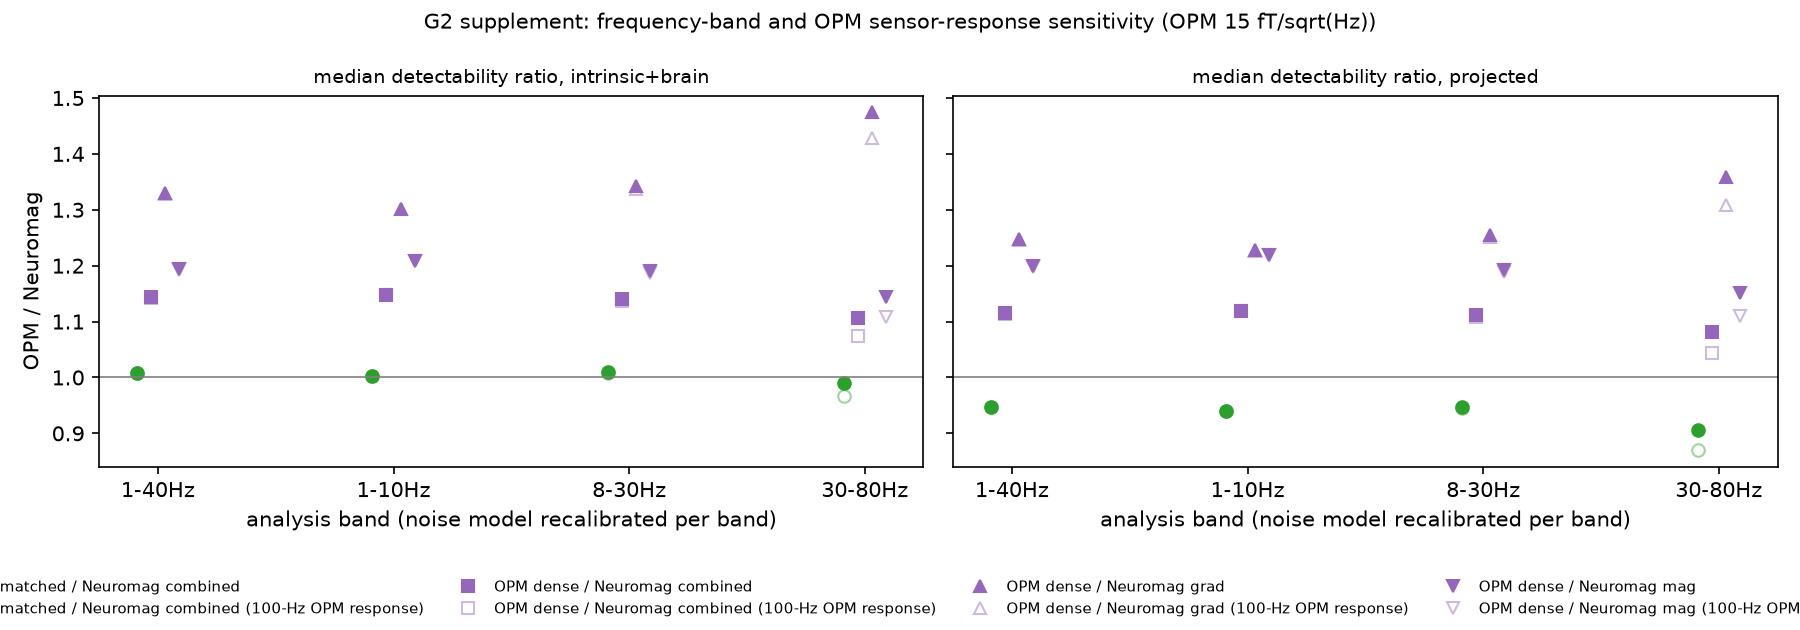
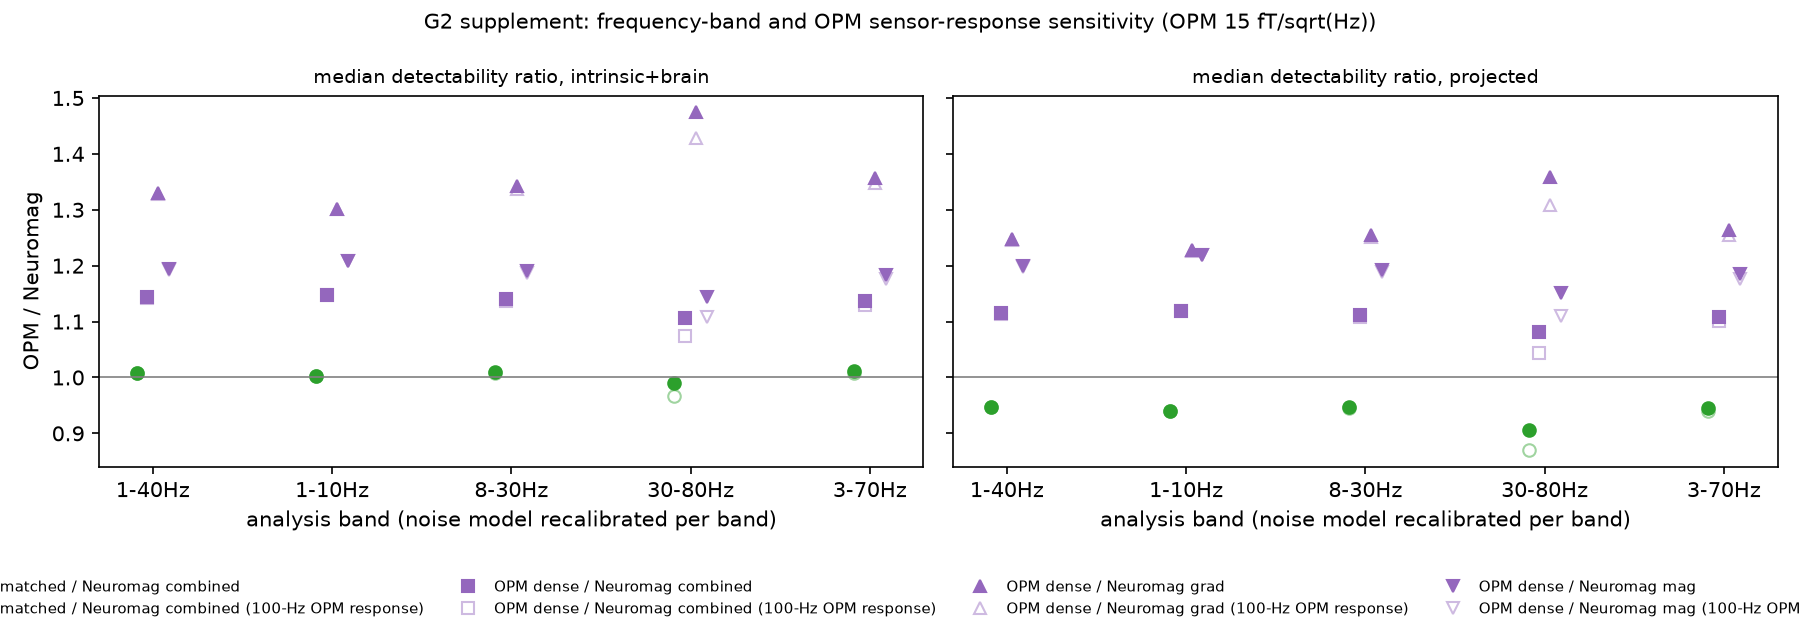
The 3-70 Hz band added to the band analysis (other bands bit-identical) and the children's MRI check re-run with full-precision depths (child B: 247 targets below 10 mm, as in the pediatric summary), both at bd70b45 in a clean checkout; the supplement's note on the old rounded count removed

diff --git a/scripts/report_facts_writer.py b/scripts/report_facts_writer.py
@@ -45,8 +45,6 @@ Read only; nothing is re-run. Every fact is computed from unrounded stored value
   wr_p_exploratory_threshold      the conventional uncorrected threshold of the exploratory tests, recovered from the stored
                                   Bonferroni threshold of the localization figure and its family size
   wr_qc_near_lo_mm, wr_qc_near_hi_mm  the two near-scalp thresholds of the children's MRI check
-  wr_qc_child_b_targets_lt10mm_shortfall  by how many targets the check's rounded count of child B's targets below 10 mm
-                                  falls short of the full-precision count
   wr_ns_depth_bin_mm              the depth-bin width of the noise-sensitivity run's own depth results
 Formats as scripts/report_facts_g12.py (whose helpers are imported): dB signed with 2 decimals, intervals "[lo, hi]",
 U+2212 for negatives, counts with thousands separators.
@@ -537,15 +535,6 @@ def threshold_facts(F: Facts, root: Path) -> None:
         raise ValueError(f"{QC}: parameters.near_mm should hold two increasing thresholds, found {near}")
     F.add("wr_qc_near_lo_mm", f"{near[0]:g}", near[0], f"{QC} :: parameters.near_mm[0] (the lower near-scalp threshold, mm)")
     F.add("wr_qc_near_hi_mm", f"{near[1]:g}", near[1], f"{QC} :: parameters.near_mm[1] (the upper near-scalp threshold, mm)")
-    full = int(json.loads((root / G3B).read_text())["comparisons"]["childB/opm_dense/combined/intrinsic+brain/detect"]
-               ["delta_by_depth"][0]["n_child"])
-    rounded = int(json.loads((root / QC).read_text())["anatomies"]["childB"]["g3b_targets"]["below_10mm"]["n"])
-    if full < rounded:
-        raise ValueError(f"the check's count ({rounded}) exceeds the full-precision count ({full})")
-    F.add("wr_qc_child_b_targets_lt10mm_shortfall", count(full - rounded), full - rounded,
-          f"{G3B} :: comparisons['childB/opm_dense/combined/intrinsic+brain/detect'].delta_by_depth[0].n_child minus "
-          f"{QC} :: anatomies['childB'].g3b_targets.below_10mm.n (derived: the full-precision count less the check's count "
-          "from depths rounded to two decimals)")
     entries = json.loads((root / NOISE_SENS).read_text())["sweep"]["entries"]
     key = next(k for k in entries if float(k) == 15.0)
     bins = entries[key]["depth"]["opm_dense/combined/intrinsic+brain"]

diff --git a/tests/test_report_facts_writer.py b/tests/test_report_facts_writer.py
@@ -291,7 +291,7 @@ class TestWriterFacts(unittest.TestCase):
         self.assertEqual(self.F["wr_n_children_below_adult_fitted_words"]["raw"], n)
         self.assertEqual(self.F["wr_n_children_below_adult_fitted_words"]["value"], "two")
 
-    def test_thresholds_shortfall_and_depth_bin_width(self):
+    def test_thresholds_counts_and_depth_bin_width(self):
         loc = json.loads((ROOT / FIGS_SUPP).read_text())["figures"]["Figure_S_localization_effects"]["values"]
         self.assertAlmostEqual(self.F["wr_p_exploratory_threshold"]["raw"],
                                loc["bonferroni_threshold"] * loc["family_per_anatomy_and_array"], places=12)
@@ -302,9 +302,9 @@ class TestWriterFacts(unittest.TestCase):
         self.assertEqual(self.F["wr_qc_near_hi_mm"]["value"], "10")
         g3b = json.loads((ROOT / "results/g3b/g3b_summary.json").read_text())["comparisons"]
         full = g3b["childB/opm_dense/combined/intrinsic+brain/detect"]["delta_by_depth"][0]["n_child"]
-        rounded = qc["anatomies"]["childB"]["g3b_targets"]["below_10mm"]["n"]
-        self.assertEqual(self.F["wr_qc_child_b_targets_lt10mm_shortfall"]["raw"], full - rounded)
-        self.assertEqual(self.F["wr_qc_child_b_targets_lt10mm_shortfall"]["value"], "2")
+        # the check now counts from the full-precision depths (results/g3b/g3b_targets_childB_depth.csv)
+        self.assertEqual(qc["anatomies"]["childB"]["g3b_targets"]["below_10mm"]["n"], full)
+        self.assertNotIn("wr_qc_child_b_targets_lt10mm_shortfall", self.F)
         ns = json.loads((ROOT / "results/g2_noise_sensitivity/noise_sensitivity_summary.json").read_text())
         bins = ns["sweep"]["entries"]["15"]["depth"]["opm_dense/combined/intrinsic+brain"]
         self.assertEqual({b["hi"] - b["lo"] for b in bins}, {self.F["wr_ns_depth_bin_mm"]["raw"]})

diff --git a/tests/test_report_facts_rev.py b/tests/test_report_facts_rev.py
@@ -166,7 +166,7 @@ class TestRevisionFacts(unittest.TestCase):
             "rev_qc_infant2yr_outward_mm": "1.6",                                  # -(-1.63892)
             "rev_qc_infant2yr_outward_excess_mm": "3.0",                           # -(-2.98547)
             "rev_qc_child_a_ofc_mri_cm": "52.9",                                   # 528.73 mm
-            "rev_qc_child_b_targets_lt10mm_n": "245",
+            "rev_qc_child_b_targets_lt10mm_n": "247",  # full-precision depths since the re-run at bd70b45
             "rev_qc_child_b_targets_lt10mm_mri_n": "47",
             "rev_qc_child_a_verdict": "usable", "rev_qc_infant2yr_verdict": "outside",
             "rev_qc_n_children_usable": "3",

diff --git a/report/supplement.md b/report/supplement.md
@@ -236,7 +236,7 @@ Regions are the lobes of the Desikan–Killiany atlas (Desikan et al., 2006) as 
 
 **Results** ([@sfig-children-qc]). Every surface's header matches its T1 (corner displacements at most {{ F.rev_qc_children_frame_max_disp_mm }} mm in the children). The children's white surfaces are registered: the best realigning shift is {{ F.rev_qc_children_white_best_shift_max_mm }} mm, the edge translation at most {{ F.rev_qc_children_white_translation_max_mm }} mm and the rotation displacement at most {{ F.rev_qc_children_white_rotation_disp_max_mm }} mm, and the contrast gain is {{ F.rev_qc_child_a_white_contrast_gain_pct }}, {{ F.rev_qc_child_b_white_contrast_gain_pct }} and {{ F.rev_qc_child_c_white_contrast_gain_pct }} for children A to C. The scalp used lies a median {{ F.wr_qc_children_offset_inside_otsu_mm_range }} mm inside the MRI head boundary in the children at the Otsu edge ({{ F.wr_qc_children_offset_inside_halfmax_mm_range }} mm at the half-maximum edge), against {{ F.wr_qc_adult_offset_inside_otsu_mm }} mm and {{ F.wr_qc_adult_offset_inside_halfmax_mm }} mm in the adult: a FreeSurfer scalp sits just inside the T1 edge in every individual head, the adult's included. The {{ F.g3b_infant2yr_age_months }}-month template's scalp lies {{ F.wr_qc_infant2yr_offset_outside_otsu_mm }} mm outside its boundary (verdict: {{ F.rev_qc_infant2yr_verdict }}), which is consistent with an average template whose scalp is smoothed outward. The head circumference on the MRI boundary exceeds that on the scalp used by {{ F.rev_qc_children_ofc_mri_minus_surface_mm_range }} mm in the children ({{ F.rev_qc_children_ofc_mri_cm_range }} against {{ F.rev_qc_children_ofc_surface_cm_range }} cm) and by {{ F.rev_qc_adult_ofc_mri_minus_surface_mm }} mm in the adult ({{ F.rev_qc_adult_ofc_mri_cm }} against {{ F.rev_qc_adult_ofc_surface_cm }} cm). Measured from the MRI boundary instead of the scalp used, the children's targets would be a median {{ F.rev_qc_children_targets_depth_change_p50_mm_range }} mm deeper and the adult's {{ F.rev_qc_adult_targets_depth_change_p50_mm }} mm, so the comparison between heads is unchanged.
 
-The shallow cortex is not a surface artefact. The closest white-surface vertex lies {{ F.rev_qc_child_a_white_scalp_min_mm }}, {{ F.rev_qc_child_b_white_scalp_min_mm }} and {{ F.rev_qc_child_c_white_scalp_min_mm }} mm below the scalp used in children A to C ({{ F.rev_qc_children_white_mri_min_mm_range }} mm below the MRI boundary), against {{ F.rev_qc_adult_white_scalp_min_mm }} mm in the adult and {{ F.rev_qc_infant2yr_white_scalp_min_mm }} mm in the template. Within {{ F.wr_qc_near_lo_mm }} mm of the scalp used lie {{ F.rev_qc_child_a_white_scalp_lt8mm_area_cm2 }}, {{ F.rev_qc_child_b_white_scalp_lt8mm_area_cm2 }} and {{ F.rev_qc_child_c_white_scalp_lt8mm_area_cm2 }} cm² of white surface in children A to C, and within {{ F.wr_qc_near_lo_mm }} mm of the MRI boundary {{ F.rev_qc_child_a_white_mri_lt8mm_area_cm2 }}, {{ F.rev_qc_child_b_white_mri_lt8mm_area_cm2 }} and {{ F.rev_qc_child_c_white_mri_lt8mm_area_cm2 }} cm² (adult: none). Of the cortical targets, {{ F.rev_qc_child_a_targets_lt8mm_n }}, {{ F.rev_qc_child_b_targets_lt8mm_n }} and {{ F.rev_qc_child_c_targets_lt8mm_n }} lie below {{ F.wr_qc_near_lo_mm }} mm and {{ F.rev_qc_child_a_targets_lt10mm_n }}, {{ F.g3b_child_b_shallow_targets_lt10mm }} and {{ F.rev_qc_child_c_targets_lt10mm_n }} below {{ F.wr_qc_near_hi_mm }} mm (the adult: {{ F.rev_qc_adult_targets_lt10mm_n }}; the check's own count for child B, from depths rounded to two decimals, is {{ F.rev_qc_child_b_targets_lt10mm_n }}). The verdicts are {{ F.rev_qc_child_a_verdict }} for child A, {{ F.rev_qc_child_b_verdict }} for child B and {{ F.rev_qc_child_c_verdict }} for child C: {{ F.rev_qc_n_children_usable }} of {{ F.g3b_n_children_heads }} children are usable, no surface was repaired, and no analysis needed rerunning. The children's shallow cortex, and child B's small head around a near-adult cortex, are not explained by their surfaces. What the check cannot settle is whether the white surface is anatomically right within a few millimetres of the scalp, where the modelled scalp-and-skull layer is thinner than is usual at this age, nor whether three children of one dataset represent their age; the main text says "in these anatomies" for that reason.
+The shallow cortex is not a surface artefact. The closest white-surface vertex lies {{ F.rev_qc_child_a_white_scalp_min_mm }}, {{ F.rev_qc_child_b_white_scalp_min_mm }} and {{ F.rev_qc_child_c_white_scalp_min_mm }} mm below the scalp used in children A to C ({{ F.rev_qc_children_white_mri_min_mm_range }} mm below the MRI boundary), against {{ F.rev_qc_adult_white_scalp_min_mm }} mm in the adult and {{ F.rev_qc_infant2yr_white_scalp_min_mm }} mm in the template. Within {{ F.wr_qc_near_lo_mm }} mm of the scalp used lie {{ F.rev_qc_child_a_white_scalp_lt8mm_area_cm2 }}, {{ F.rev_qc_child_b_white_scalp_lt8mm_area_cm2 }} and {{ F.rev_qc_child_c_white_scalp_lt8mm_area_cm2 }} cm² of white surface in children A to C, and within {{ F.wr_qc_near_lo_mm }} mm of the MRI boundary {{ F.rev_qc_child_a_white_mri_lt8mm_area_cm2 }}, {{ F.rev_qc_child_b_white_mri_lt8mm_area_cm2 }} and {{ F.rev_qc_child_c_white_mri_lt8mm_area_cm2 }} cm² (adult: none). Of the cortical targets, {{ F.rev_qc_child_a_targets_lt8mm_n }}, {{ F.rev_qc_child_b_targets_lt8mm_n }} and {{ F.rev_qc_child_c_targets_lt8mm_n }} lie below {{ F.wr_qc_near_lo_mm }} mm and {{ F.rev_qc_child_a_targets_lt10mm_n }}, {{ F.g3b_child_b_shallow_targets_lt10mm }} and {{ F.rev_qc_child_c_targets_lt10mm_n }} below {{ F.wr_qc_near_hi_mm }} mm (the adult: {{ F.rev_qc_adult_targets_lt10mm_n }}; counted from the full-precision depths). The verdicts are {{ F.rev_qc_child_a_verdict }} for child A, {{ F.rev_qc_child_b_verdict }} for child B and {{ F.rev_qc_child_c_verdict }} for child C: {{ F.rev_qc_n_children_usable }} of {{ F.g3b_n_children_heads }} children are usable, no surface was repaired, and no analysis needed rerunning. The children's shallow cortex, and child B's small head around a near-adult cortex, are not explained by their surfaces. What the check cannot settle is whether the white surface is anatomically right within a few millimetres of the scalp, where the modelled scalp-and-skull layer is thinner than is usual at this age, nor whether three children of one dataset represent their age; the main text says "in these anatomies" for that reason.
 
 ::: figure {#sfig-children-qc}
 ![Three parts: MRI sections through the white-surface vertex closest to the scalp for the adult, children A to C and the 2-year template with the surfaces outlined; cumulative shares of white-surface vertices against distance to the scalp and to the MRI head boundary; and the offset of the MRI head boundary from the scalp used per head](results/report/Figure_S_children_qc.png)
@@ -488,7 +488,7 @@ This note collects, in one place, what was decided before and after results were
 
 **Model versions.** The model went through four versions before the results were frozen. The first three took the OPM sensitive axes from the adult's stored outer-skin normals, which are nearly radial, and placed the adult's head surface outside its MRI scalp (by a median of {{ F.g2_conform_median_mm }} mm, the move of the final version's conform step); the second checked the OPM cell's clearance from the head at its integration points only, and the third at the whole cell, which moved most of the adult's sites outward. The final version puts every head's surface on its MRI scalp, so that the clearance rule moves only the sites the anatomy demands and the OPM standoff is the same ({{ F.g3b_all_dense_standoff_2dp_range }} mm) on every head, and takes the sensitive axes from that surface's own triangles (section C.1). This last change, equal OPM standoff on every head, was made after the pediatric results were known. It lowered Δ by {{ F.g3b_v3_v4_delta_drop_range }} dB in the scaled adults and templates (the school-aged children were added afterwards and exist only in the final version), raised the adult's projected dense ratio (the earlier construction gave {{ F.g2_hse_v3_dense_vs_combined_proj_ratio_3dp }}; the final sites with the earlier, nearly radial axes give {{ F.g2_hse_v4sites_v3axes_dense_vs_combined_proj_ratio_3dp }}; the final model gives {{ F.g2_dense_vs_combined_proj_ratio_3dp }}), made the laterally centred scaled-helmet Δ of the scaled adults and templates negative, and strengthened the adult's exploratory spike result at {{ F.g4_band_10_20mm }} mm (earlier {{ F.g4_earlier_v3_dense_vs_combined_10_20mm }} locations, p = {{ F.g4_earlier_v3_dense_vs_combined_10_20mm_p }}, S50 ratio {{ F.g4_earlier_v3_dense_vs_combined_10_20mm_ratio }}, against {{ F.g4_adult_dense_vs_combined_practical_10_20mm_locs_opm }}/{{ F.g4_adult_dense_vs_combined_practical_10_20mm_locs_squid }} and {{ F.g4_adult_dense_vs_combined_practical_10_20mm_ratio }} in the final version). Every array change redraws the noise, because an array's channel count changes the random stream. The dense array's advantage at {{ F.g4_band_10_20mm }} mm held in every version; which deeper cells reach p < {{ F.wr_p_exploratory_threshold }} did not: the site-matched array's deficit at {{ F.g4_band_45_70mm }} mm in two earlier versions ({{ F.g4_earlier_v2_matched_vs_combined_45_70mm }} locations in the second, {{ F.g4_earlier_v3_matched_vs_combined_45_70mm }} with p = {{ F.g4_earlier_v3_matched_vs_combined_45_70mm_p }} in the third) does not reach p < {{ F.wr_p_exploratory_threshold }} in the final one ({{ F.g4_adult_matched_vs_combined_practical_45_70mm_locs_opm }}/{{ F.g4_adult_matched_vs_combined_practical_45_70mm_locs_squid }} locations, p = {{ F.g4_adult_matched_vs_combined_practical_45_70mm_p }}). Results that depend on these choices are post hoc, the earlier result files are not part of the stored results, and persistence across versions is not replication.
 
-**Added in the revision.** In the revision, analyses were added without changing the model: the check of the noise model against the measured Neuromag covariance and the sensitivity analyses (section C), the MRI quality check of the school-aged children (section D.3) and the helmet fitted at the adult's gap (section E.3). Each reproduces the stored results it builds on to within rounding, as its result file records (the MRI check's count of child B's targets below 10 mm, from depths rounded to two decimals, falls {{ F.wr_qc_child_b_targets_lt10mm_shortfall }} short of the full-precision count; section D.3), and each was run at one code commit named in that file. The confirmatory spike run was designed before it was run (main text, Section 2.5) and is the only pre-specified test of the study.
+**Added in the revision.** In the revision, analyses were added without changing the model: the check of the noise model against the measured Neuromag covariance and the sensitivity analyses (section C), the MRI quality check of the school-aged children (section D.3) and the helmet fitted at the adult's gap (section E.3). Each reproduces the stored results it builds on to within rounding, as its result file records, and each was run at one code commit named in that file. The confirmatory spike run was designed before it was run (main text, Section 2.5) and is the only pre-specified test of the study.
 
 **Parameter provenance.** From the manufacturer's TRIUX datasheet: the Neuromag noise values and the {{ F.meth_dewar_mm }}-mm coil-to-helmet spacing ([S7](register.html)). From the preprint's description of its sensors and from device papers: the {{ F.meth_prov_standoff_mm }}-mm standoff of the sensing centre; the {{ F.meth_prov_cell_mm }}-mm cell is a modelling choice, an averaging volume rather than a device cell, whose effect at the field peak is at most {{ F.wr_opm_cell_peak_effect_pct }} ([S7](register.html)). Declared simulation choices without a device specification: the primary OPM noise of {{ F.meth_prov_opm_asd_primary }} fT/√Hz (the middle of the {{ F.meth_prov_opm_asd_sweep }} fT/√Hz sweep), the {{ F.meth_prov_pack_mm }}-mm minimum OPM spacing (standing for a package of {{ F.meth_prov_package_range_mm }} mm), the {{ F.meth_opm_bw_corner_hz }}-Hz OPM response and the 1/f^x^ background spectrum. Figure readings of the preprint: its Fig. 8 bar values (from the {{ F.meth_prov_raster_dpi }}-dpi raster, about ±{{ F.meth_prov_fig8_precision_pct }}) and its empty-room OPM floor, {{ F.meth_prov_fig9_db_range }} dB re fT²/Hz on Fig. 9, or {{ F.meth_prov_fig9_asd_range }} fT/√Hz if the unstated reference is 1 fT²/Hz. The register ([S7](register.html)) lists every entry and its status.
 
